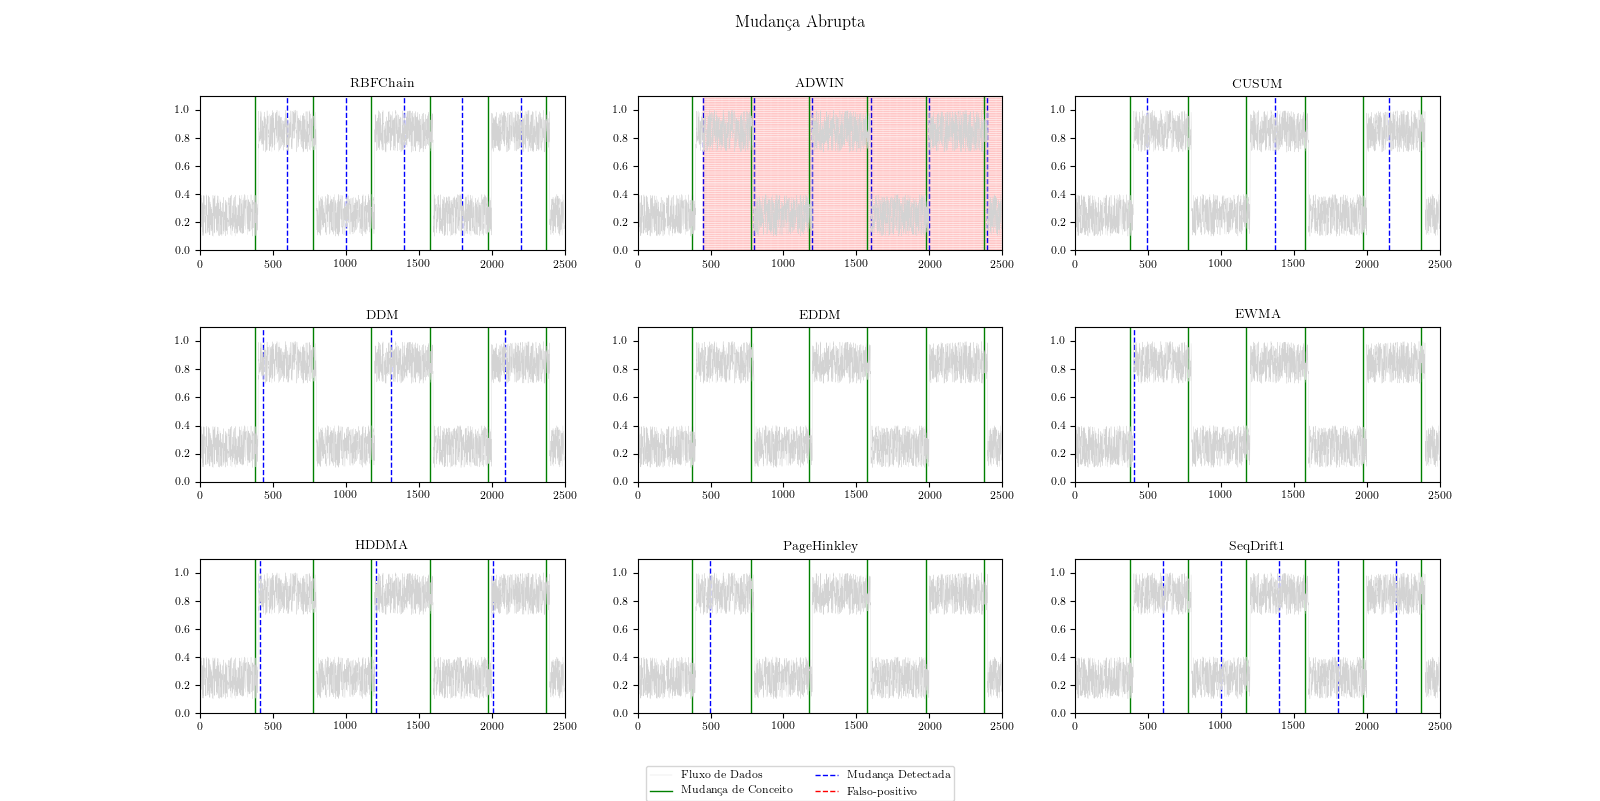
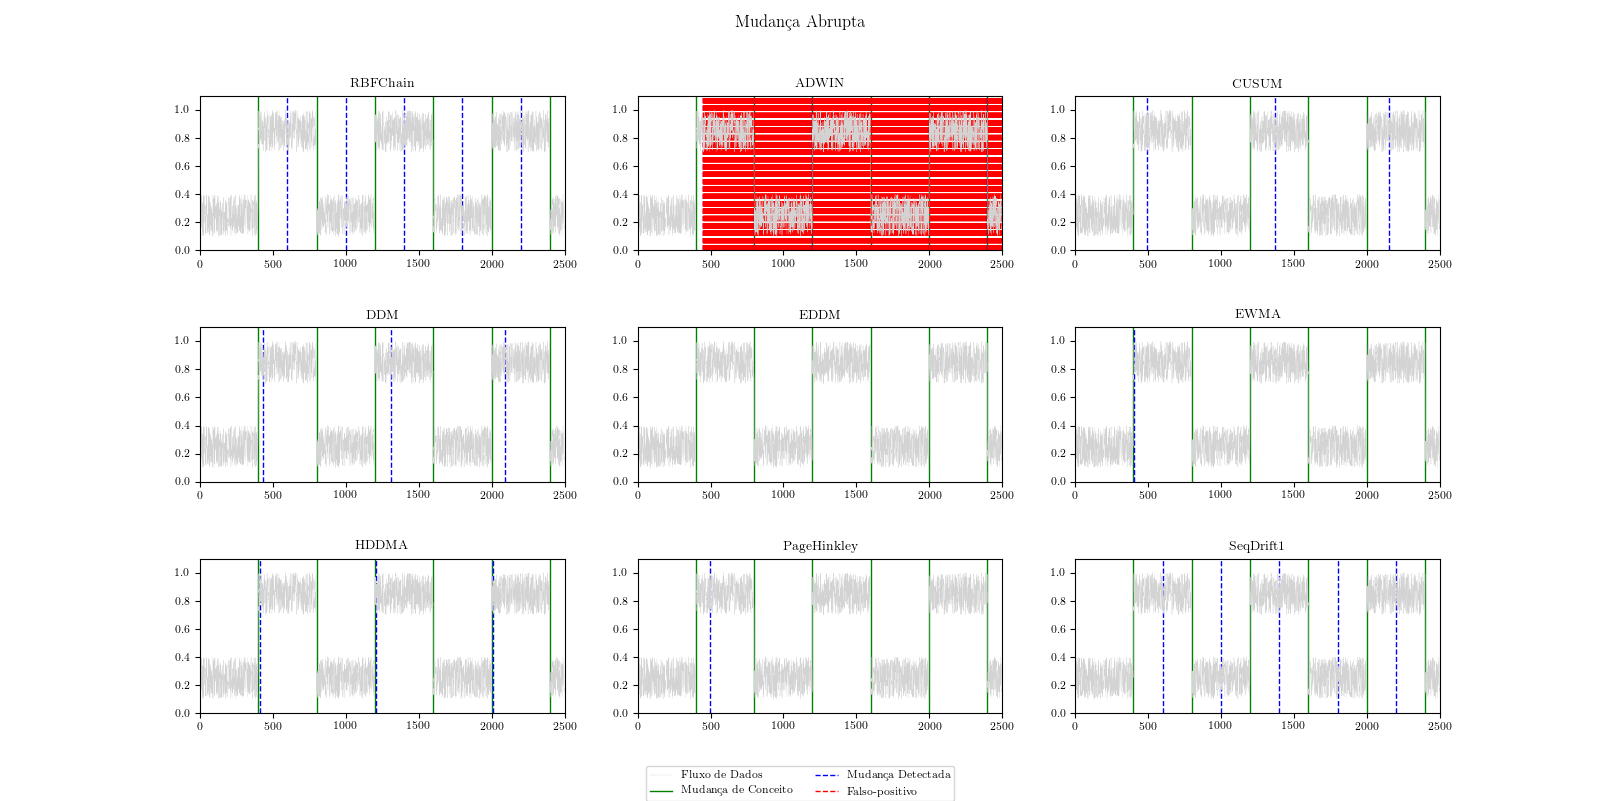
tabular

diff --git a/experiments/thesis_moa/tabular_multiplos_resultados_moa.py b/experiments/thesis_moa/tabular_multiplos_resultados_moa.py
@@ -71,9 +71,10 @@ for file in files:
     )
     table_row["MR"] = int(df.iloc[-1]["true changes"])
     try:
-        table_row["ATR"] = float(df.iloc[-1]["delay detection (average)"])
-    except ValueError:
-        table_row["ATR"] = 0
+        assert float(df.iloc[-1]['delay detection (average)']) > 0.0
+        table_row["ATR"] = f"{float(df.iloc[-1]['delay detection (average)']):.2f}"
+    except (ValueError, AssertionError):
+        table_row["ATR"] = "---"
 
     # Counting VP and FP
     true_changes = 0
@@ -118,6 +119,6 @@ for filename in table:
     print(f"{row['MR']:<22}", end=" & ")
     print(f"{row['VP']:<22}", end=" & ")
     print(f"{row['FP']:<22}", end=" & ")
-    print(f"{row['ATR']:<22.2f}", end=" \\\\ ")
+    print(f"{row['ATR']:<22}", end=" \\\\ ")
     print()
 print("\\bottomrule")

diff --git a/experiments/thesis_moa/plotar_um_resultado_moa.py b/experiments/thesis_moa/plotar_um_resultado_moa.py
@@ -44,7 +44,7 @@ for index, row in df.iterrows():
 
     if row["detected changes"] > detected_changes:
         if not pending_drift:
-            plt.axvline(index, color="r", ls="--", linewidth=0.25, alpha=0.1)
+            plt.axvline(index, color="r", ls="--", linewidth=1)
         else:
             plt.axvline(index, color="b", ls="--", linewidth=1)
             pending_drift = False

diff --git a/experiments/thesis_moa/plotar_multiplos_resultados_moa.py b/experiments/thesis_moa/plotar_multiplos_resultados_moa.py
@@ -87,7 +87,7 @@ for file in files:
         data.append(row["input values"])
 
         if row["true changes"] > true_changes:
-            ax.axvline(index - 25, color="g", ls="-", linewidth=1)
+            ax.axvline(index, color="g", ls="-", linewidth=1)
             true_changes += 1
             pending_drift = True
 
